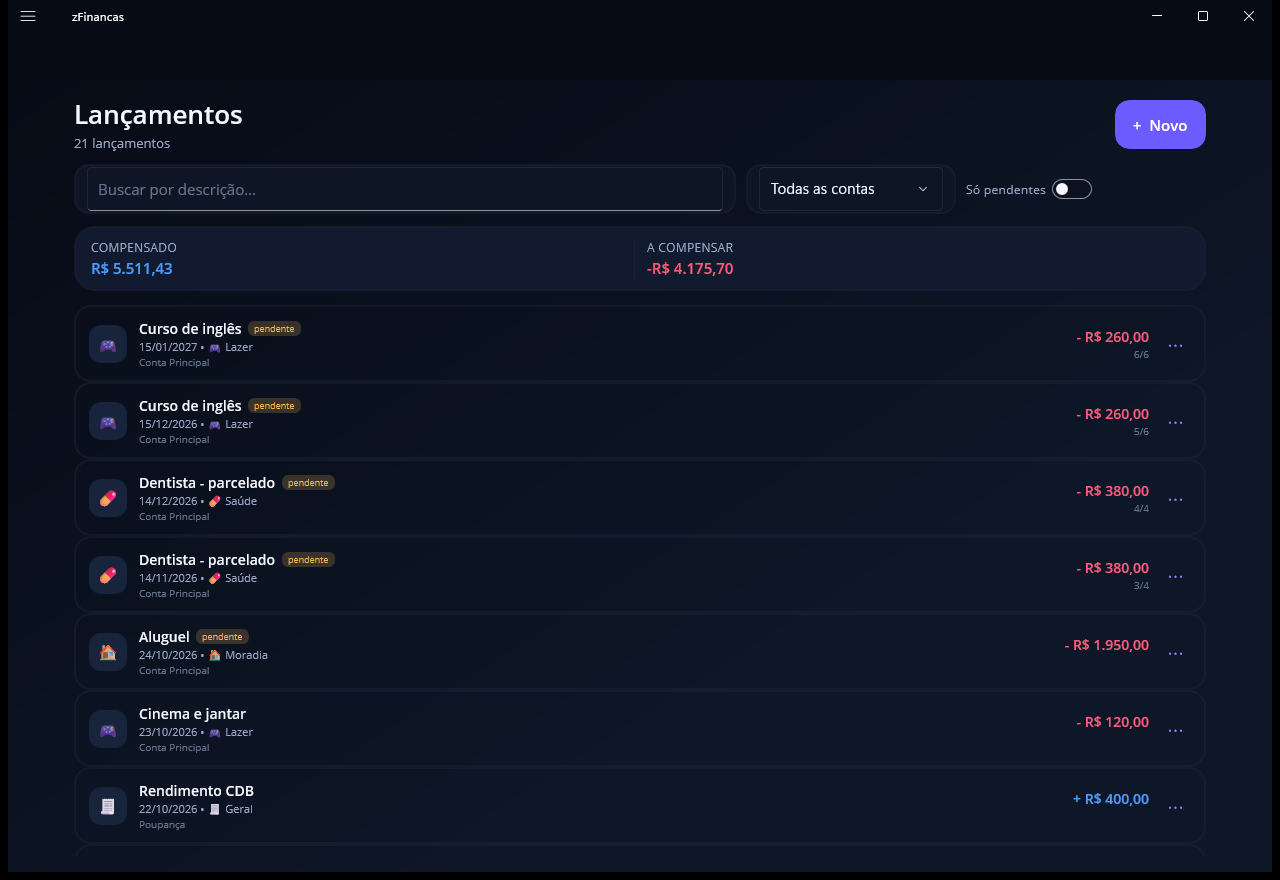
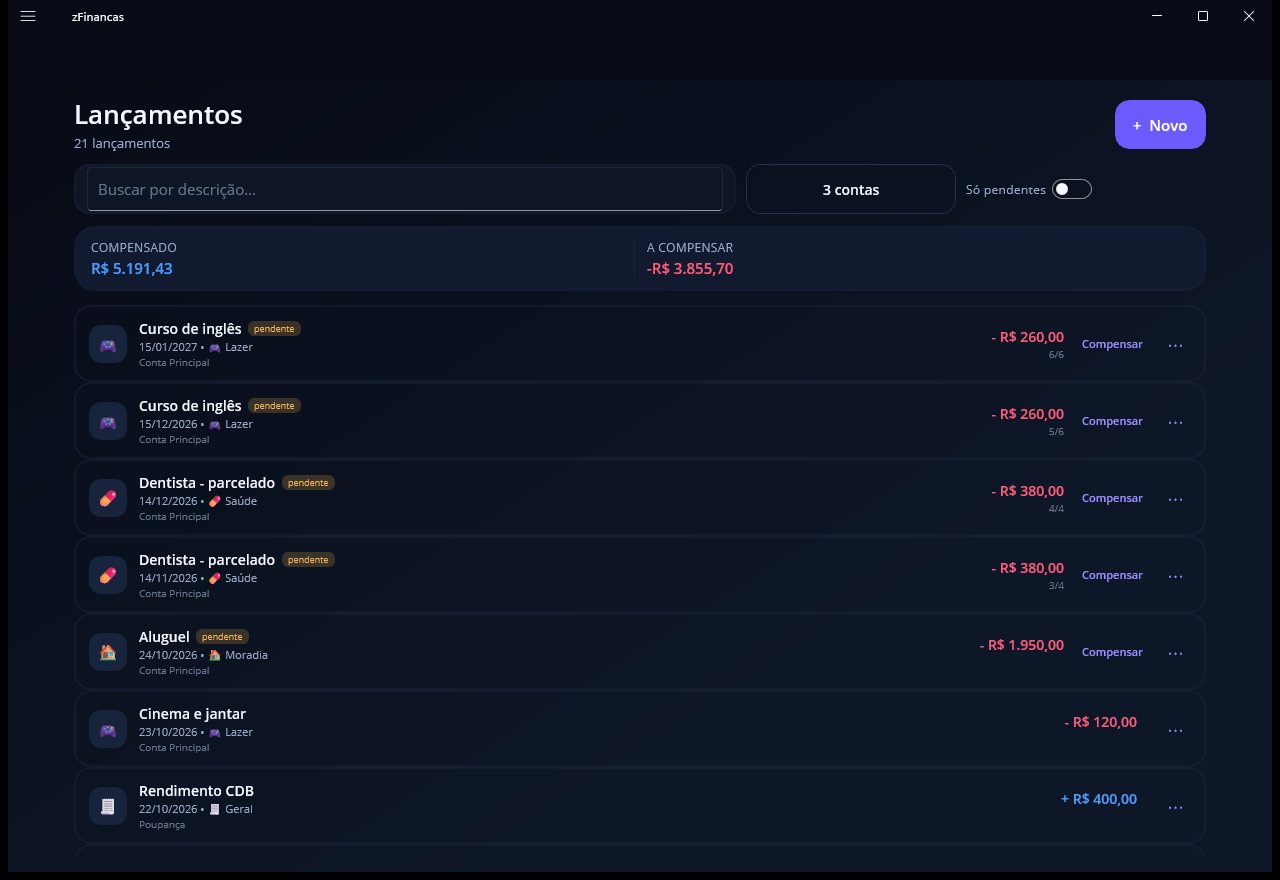
Lancamentos: botao Compensar direto na linha (como no extrato)
- cada parcela pendente ganhou o atalho 'Compensar' ao lado do valor, abrindo o
  mesmo painel de compensacao com data escolhida usado no extrato
- a opcao 'Marcar como compensado' saiu do menu de acoes (agora e atalho direto);
  'Desfazer compensacao' continua no menu para parcelas ja compensadas
- README e captura da tela de lancamentos atualizados

diff --git a/src/zFinancas.App/Pages/LancamentosPage.xaml b/src/zFinancas.App/Pages/LancamentosPage.xaml
@@ -1,4 +1,4 @@
-<?xml version="1.0" encoding="UTF-8" ?>
+<?xml version="1.0" encoding="UTF-8" ?>
 <ContentPage xmlns="http://schemas.microsoft.com/dotnet/2021/maui"
              xmlns:x="http://schemas.microsoft.com/winfx/2009/xaml"
              xmlns:vm="clr-namespace:zFinancas.App.ViewModels"
@@ -85,7 +85,7 @@
                                 CommandParameter="{Binding .}" />
                         </Border.GestureRecognizers>
 
-                        <Grid ColumnDefinitions="Auto,*,Auto,Auto" ColumnSpacing="12">
+                            <Grid ColumnDefinitions="Auto,*,Auto,Auto,Auto" ColumnSpacing="12">
                             <Border WidthRequest="38"
                                     HeightRequest="38"
                                     BackgroundColor="{StaticResource SuperficieElevada}"
@@ -124,6 +124,15 @@
                             </VerticalStackLayout>
 
                             <Button Grid.Column="3"
+                                    Text="Compensar"
+                                    IsVisible="{Binding Pendente}"
+                                    Style="{StaticResource BotaoTexto}"
+                                    FontSize="11"
+                                    Command="{Binding Source={RelativeSource AncestorType={x:Type vm:LancamentosViewModel}}, Path=CompensarCommand}"
+                                    CommandParameter="{Binding .}"
+                                    VerticalOptions="Center" />
+
+                            <Button Grid.Column="4"
                                     Text="⋯"
                                     FontSize="18"
                                     Style="{StaticResource BotaoTexto}"

diff --git a/src/zFinancas.App/ViewModels/LancamentosViewModel.cs b/src/zFinancas.App/ViewModels/LancamentosViewModel.cs
@@ -54,6 +54,7 @@ public sealed class LancamentosViewModel : BaseViewModel
         EditarCommand = new ComandoAssincrono<LancamentoVm>(item =>
             item is null ? Task.CompletedTask : _navegacao.AbrirLancamentoAsync(item.Id));
         AcoesCommand = new ComandoAssincrono<LancamentoVm>(ExecutarAcoesAsync);
+        CompensarCommand = new ComandoAssincrono<LancamentoVm>(CompensarAsync);
         AbrirSelecaoContasCommand = new ComandoAssincrono(AbrirSelecaoContasAsync);
     }
 
@@ -63,6 +64,9 @@ public sealed class LancamentosViewModel : BaseViewModel
     public ICommand NovoCommand { get; }
     public ICommand EditarCommand { get; }
     public ICommand AcoesCommand { get; }
+
+    /// <summary>Compensação direta na linha (mesmo atalho do extrato).</summary>
+    public ICommand CompensarCommand { get; }
     public ICommand AbrirSelecaoContasCommand { get; }
     public SelecaoContasViewModel? SelecaoContas
     {
@@ -614,4 +618,16 @@ public sealed class LancamentosViewModel : BaseViewModel
         }
     }
 #endif
+    /// <summary>Atalho da linha: abre o painel de compensação (data escolhida).</summary>
+    private Task CompensarAsync(LancamentoVm? item)
+    {
+        if (item is null || !item.Pendente)
+        {
+            return Task.CompletedTask;
+        }
+
+        AbrirCompensacao(item);
+
+        return Task.CompletedTask;
+    }
 }

diff --git a/README.md b/README.md
@@ -13,7 +13,7 @@ sem telemetria e sem depender de internet.
 | **Login** | seleção de usuário, senha, dica de senha e entrada por biometria (celular) |
 | **Primeiro acesso** | cria o usuário ADM, semeia conta e centro de custo principais e entrega o código de recuperação |
 | **Dashboard** | carrossel de contas, saldo compensado / a compensar / vencido, entradas e saídas e últimos 7 dias |
-| **Lançamentos** | filtros por conta/pendência/busca, compensar, descompensar, excluir uma ou várias parcelas (painel de seleção) e quitar parcelas escolhidas |
+| **Lançamentos** | filtros por contas/pendência/busca, **Compensar** direto na linha (data escolhida), descompensar, excluir uma ou várias parcelas e quitar parcelas escolhidas |
 | **Lançamento por voz** | toque no microfone e fale: “gastei 32,50 no mercado ontem” — o formulário abre preenchido |
 | **Novo lançamento** | despesa ou recebimento, recorrência (semanal, quinzenal, mensal, anual) com parcelas e agrupador |
 | **Extrato** | conta + período, saldo anterior (só compensados), saldo linha a linha e destaque dos pendentes |
